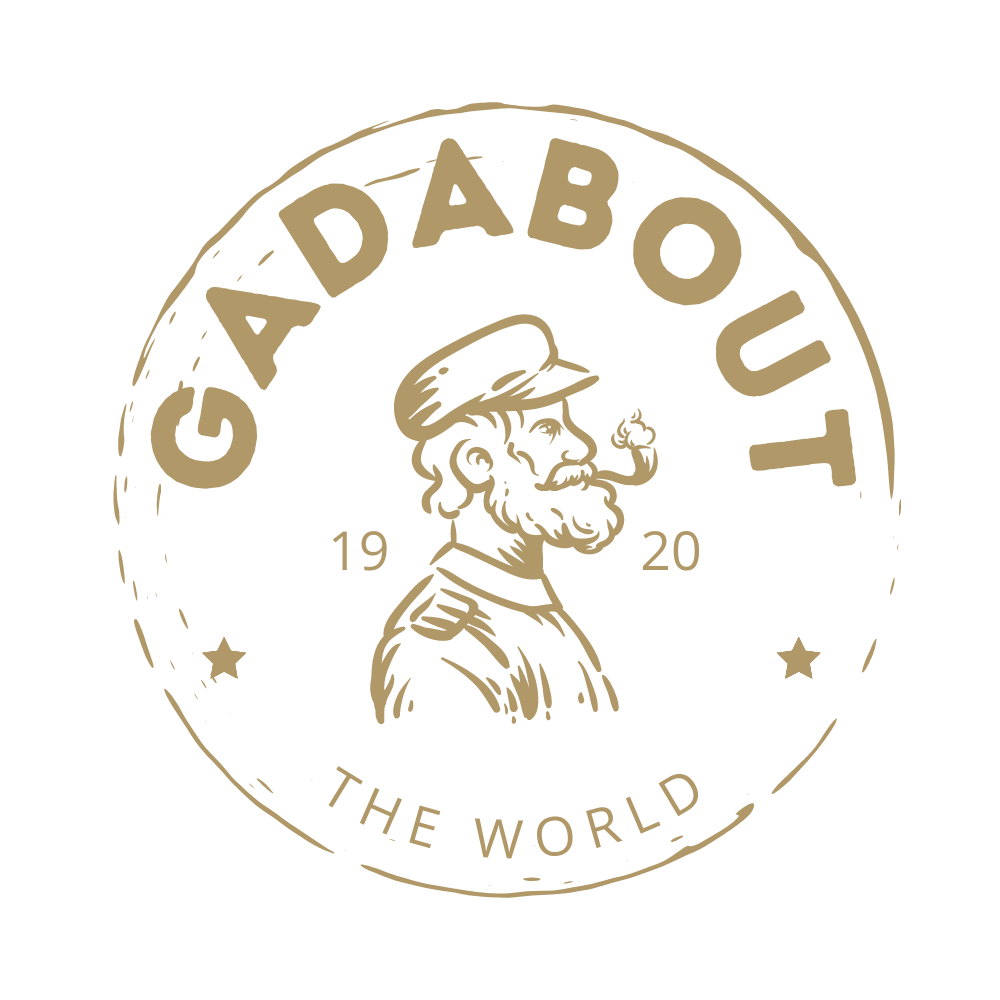
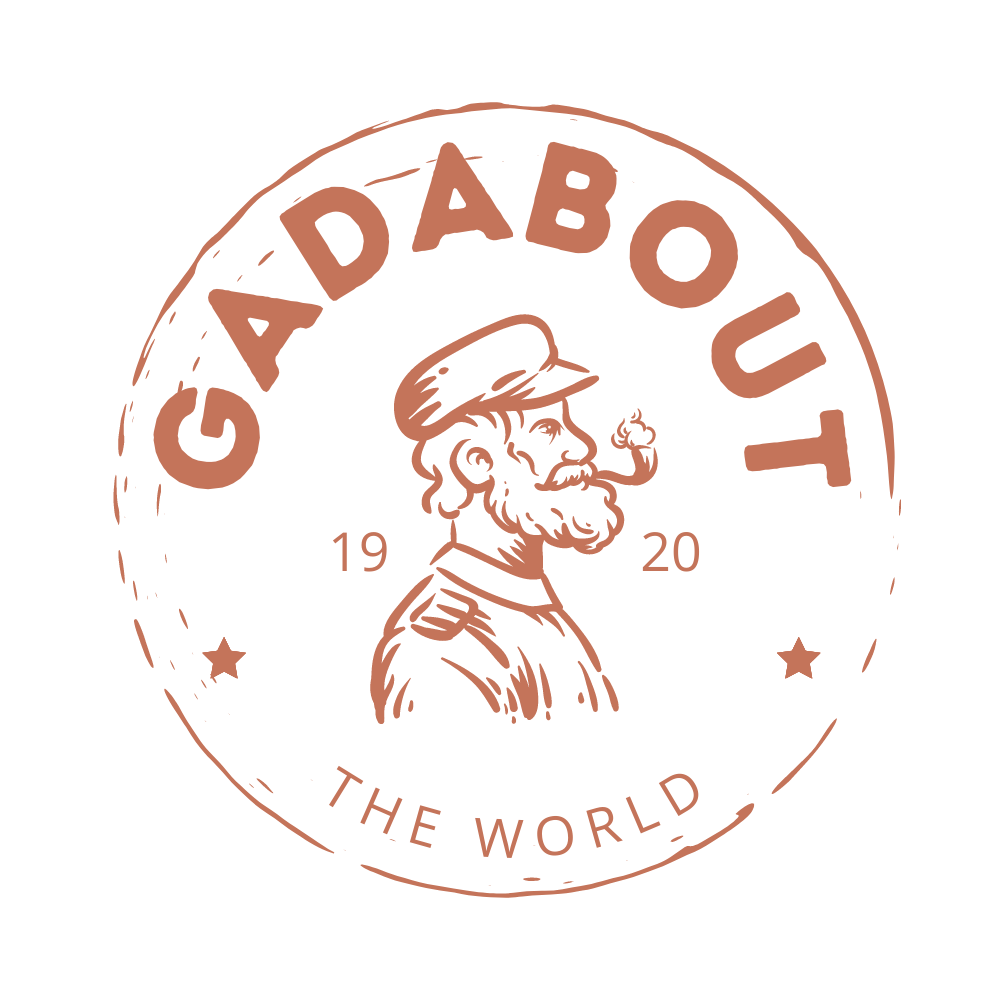
Updates

diff --git a/index.html b/index.html
@@ -1,1 +1,1 @@
-<!doctype html><html lang="en"><head><meta charset="utf-8"/><link rel="icon" href="/React-Travel-Journal/favicon.ico"/><meta name="viewport" content="width=device-width,initial-scale=1"/><meta name="theme-color" content="#000000"/><meta name="description" content="T.R.Rapp travel journal"/><link rel="apple-touch-icon" href="/React-Travel-Journal/logo192.png"/><link rel="manifest" href="/React-Travel-Journal/manifest.json"/><link rel="preconnect" href="https://fonts.googleapis.com"><link rel="preconnect" href="https://fonts.gstatic.com" crossorigin><link href="https://fonts.googleapis.com/css2?family=Inter:wght@400;800&display=swap" rel="stylesheet"><title>T.Rapp Travel Journal</title><script defer="defer" src="/React-Travel-Journal/static/js/main.1d8e94d4.js"></script><link href="/React-Travel-Journal/static/css/main.14e4e825.css" rel="stylesheet"></head><body><noscript>This app is built on ReactJS, a JavaScript Library. Therefore, it will not be able to compile, display, or otherwise work unless Javascript is enabled on your browser. Please enable Javascript in your browser to continue.</noscript><main><img src="assets/GadAbout.svg" alt="gadabout the world icon"><div class="title"><span class="char6">T</span> <span class="char7">R</span> <span class="char8">A</span> <span class="char9">V</span> <span class="char10">E</span> <span class="char11">L</span></div><div class="title1"><span class="char12">J</span> <span class="char13">O</span> <span class="char14">U</span> <span class="char15">R</span> <span class="char16">N</span> <span class="char17">A</span> <span class="char18">L</span></div><div class="scan-container"><img class="scan" src="assets/scan_4_copy.png" alt="decal"><img src="assets/scan_6.png" alt="chinese coin" class="chinese-coin"></div><section class="parallax--first"></section><section class="not-parallax--first"><p class="text-alaska"><q>The journey of a thousand miles begins with a single step.</q><span class="lao-tzu">-- Lao Tzu.</span></p><img src="assets/white_bible.png" alt="white bible" class="white-bible"><img src="assets/alaska.png" alt="coin give out for artic exercise" class="alaska"></section><section class="parallax--second"></section><div class="root--container shadow-elevation-high"><div class="root--top-bar"><img src="" alt="map icon"><p>T.R.Rapp Travel Journal</p></div><div id="root" class="root"></div><img src="assets/emb.png" alt="" class="emb"><img src="assets/iraqi_flag.png" alt="" class="iraqi_flag"></div></main></body></html>
+<!doctype html><html lang="en"><head><meta charset="utf-8"/><link rel="icon" href="/React-Travel-Journal/favicon.ico"/><meta name="viewport" content="width=device-width,initial-scale=1"/><meta name="theme-color" content="#000000"/><meta name="description" content="T.R.Rapp travel journal"/><link rel="apple-touch-icon" href="/React-Travel-Journal/logo192.png"/><link rel="manifest" href="/React-Travel-Journal/manifest.json"/><link rel="preconnect" href="https://fonts.googleapis.com"><link rel="preconnect" href="https://fonts.gstatic.com" crossorigin><link href="https://fonts.googleapis.com/css2?family=Inter:wght@400;800&display=swap" rel="stylesheet"><title>T.Rapp Travel Journal</title><script defer="defer" src="/React-Travel-Journal/static/js/main.1d8e94d4.js"></script><link href="/React-Travel-Journal/static/css/main.14e4e825.css" rel="stylesheet"></head><body><noscript>This app is built on ReactJS, a JavaScript Library. Therefore, it will not be able to compile, display, or otherwise work unless Javascript is enabled on your browser. Please enable Javascript in your browser to continue.</noscript><main><img src="assets/GadAbout.png" alt="gadabout the world icon"><div class="title"><span class="char6">T</span> <span class="char7">R</span> <span class="char8">A</span> <span class="char9">V</span> <span class="char10">E</span> <span class="char11">L</span></div><div class="title1"><span class="char12">J</span> <span class="char13">O</span> <span class="char14">U</span> <span class="char15">R</span> <span class="char16">N</span> <span class="char17">A</span> <span class="char18">L</span></div><div class="scan-container"><img class="scan" src="assets/scan_4_copy.png" alt="decal"><img src="assets/scan_6.png" alt="chinese coin" class="chinese-coin"></div><section class="parallax--first"></section><section class="not-parallax--first"><p class="text-alaska"><q>The journey of a thousand miles begins with a single step.</q><span class="lao-tzu">-- Lao Tzu.</span></p><img src="assets/white_bible.png" alt="white bible" class="white-bible"><img src="assets/alaska.png" alt="coin give out for artic exercise" class="alaska"></section><section class="parallax--second"></section><div class="root--container shadow-elevation-high"><div class="root--top-bar"><img src="" alt="map icon"><p>T.R.Rapp Travel Journal</p></div><div id="root" class="root"></div><img src="assets/emb.png" alt="" class="emb"><img src="assets/iraqi_flag.png" alt="" class="iraqi_flag"></div></main></body></html>
